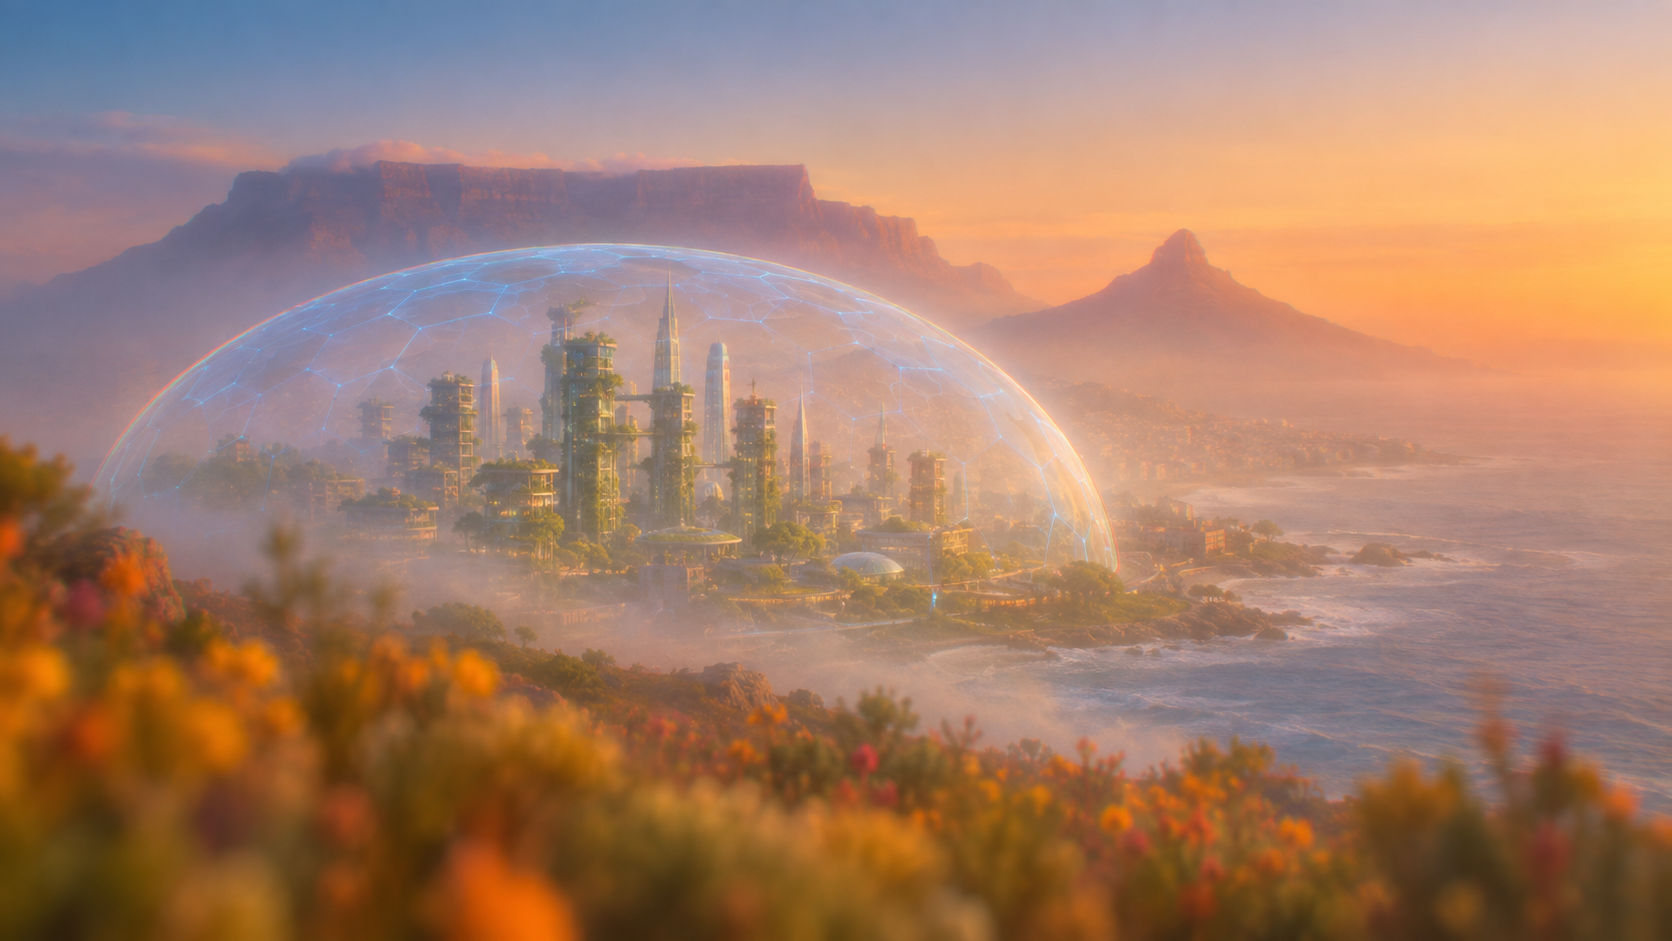
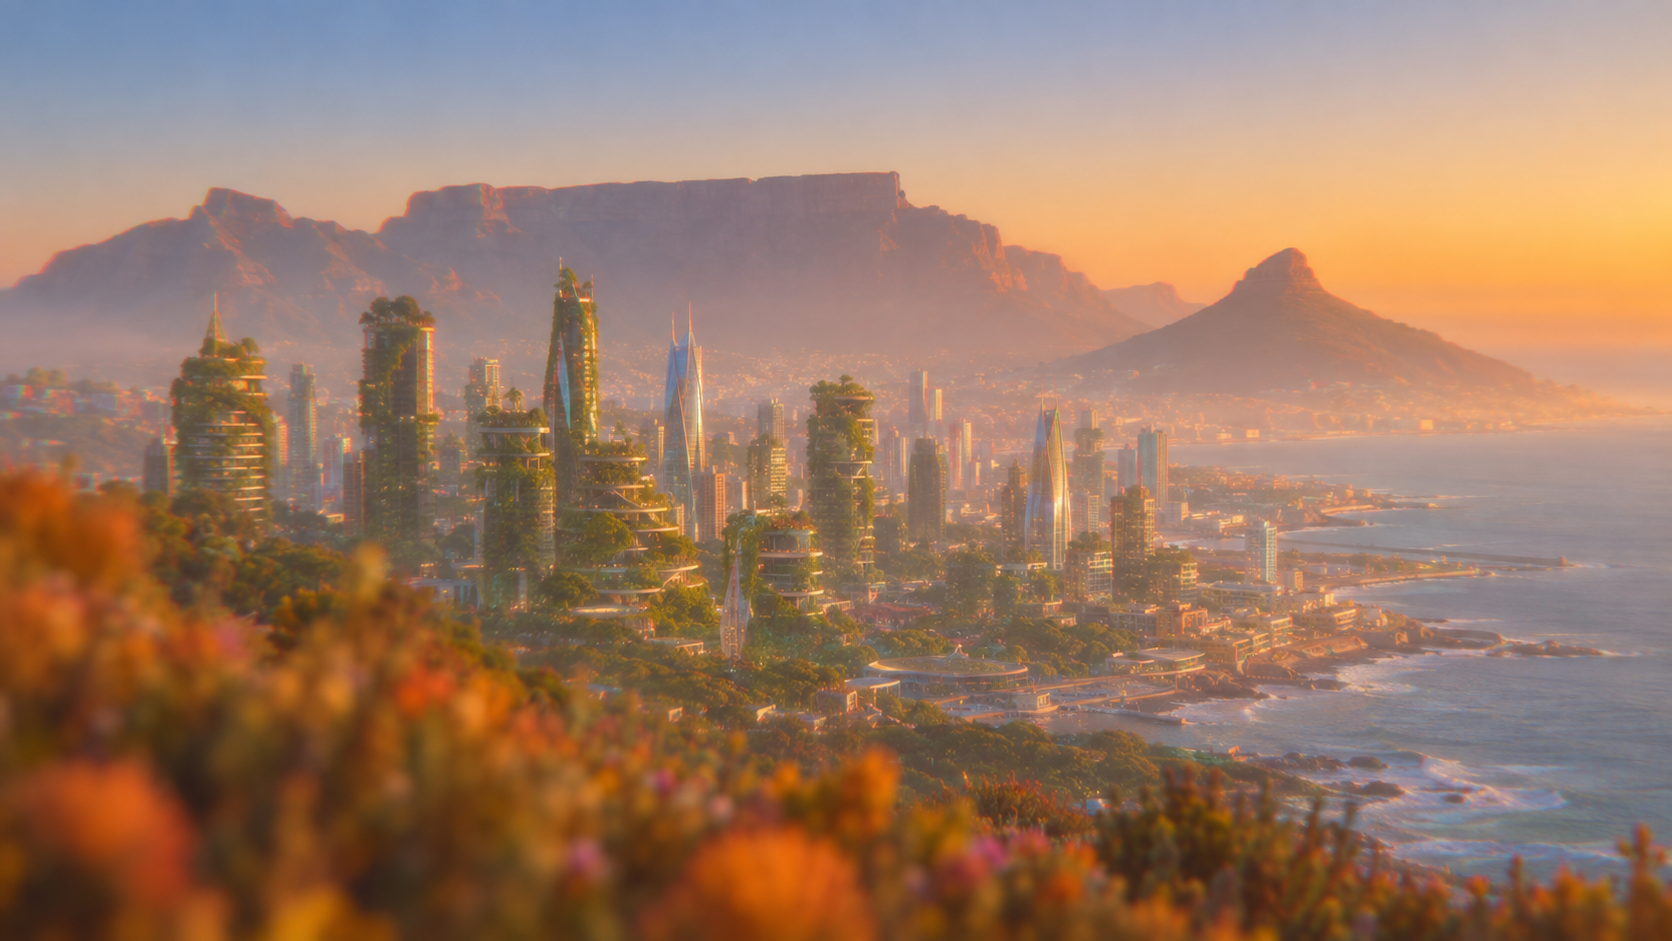
Remove hex dome from Cape Town image

diff --git a/index.html b/index.html
@@ -123,7 +123,7 @@
       </div>
 
       <div class="theory-block">
-        <div class="theory-block__image" style="background-image: url('assets/theory/cape-town.png')" role="img" aria-label="A solarpunk Cape Town skyline in a translucent dome beneath Table Mountain"></div>
+        <div class="theory-block__image" style="background-image: url('assets/theory/cape-town.png')" role="img" aria-label="A solarpunk Cape Town skyline beneath Table Mountain and Lion's Head at golden hour"></div>
         <h3 class="subhead">Why Cape Town</h3>
         <div class="prose">
           <p>This fellowship is run by the Cape Institute for Safe AI (CISAI). CISAI aims to be a world-class science and technology hub, specifically pushing the frontier of differential technological advancement. CISAI aims to attract philosopher-builders who recognise the importance of building systemic resilience, improving coordination around collective action problems, and empowering a pluralistic humanity. CISAI's advantage in this regard is its connections to some of the top academic institutions in Africa and Cape Town's existing position as a tourist hub that internationals are glad to travel to. We believe success at this aim will have local and national implications that could scale to the rest of the continent and the world.</p>
